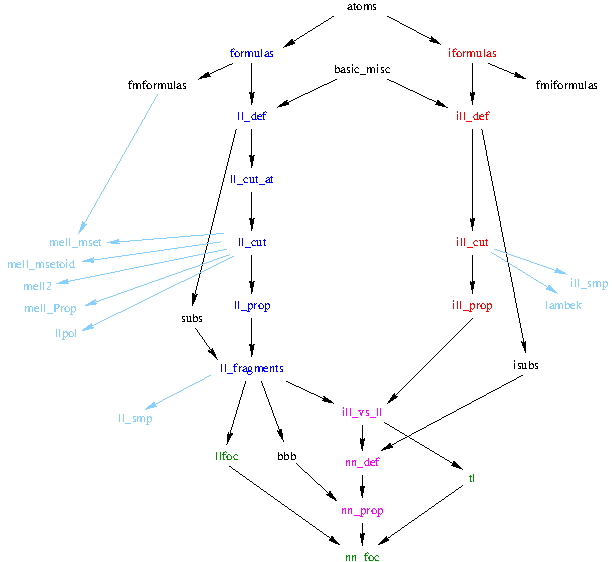
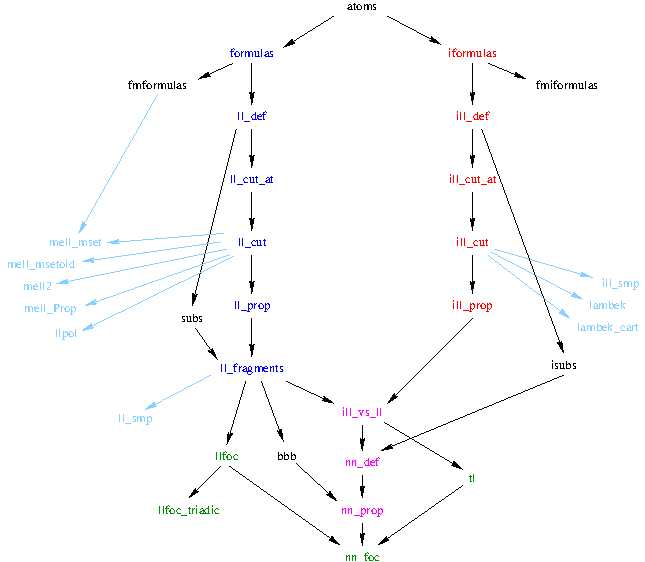
update metadata

diff --git a/RELEASE_NOTES.md b/RELEASE_NOTES.md
@@ -1,13 +1,13 @@
-# YALLA: an LL library for Coq
+# YALLA: an LL library for Rocq
 
-## Version 2.x
+## Version 2.1.0
 
-Modifications in definitions leading to possible incompatibilities with version 2.0.*:
+This major revision introduces modifications in definitions leading to possible incompatibilities with versions 2.0.*:
 
 * generalized mix rules
     (no real impact if mix rules are not used except that the `mix0` and `mix2` rules are replaced by a single rule);
 * output of `atomic` is now in `Type` (only requires simple updates if `atomic` is used);
-* results are now parametrized over atom sets (this increases the number of implicit parameters of objects);
+* results are now parameterized over atom sets (this increases the number of implicit parameters of objects);
 * introduction of `Forall_sequent` to deal with properties of sequents inside proofs rather than `ll_ps` (and similarly for the other systems);
 * parameter `pcut` for cut-rules is now of type `formula -> bool`.
 
@@ -21,7 +21,27 @@ New results added, including:
 * Girard's translations of intuitionistic logic;
 * more on focusing (Andreoli's triadic system).
 
-*Tested with Coq v8.17.0.*
+[OLlibs](https://github.com/olaure01/ollibs) v2.1 is now required as an external dependency.
+
+*Tested with Rocq v9.2.*
+
+## Version 2.0.7 (2025/03/26)
+
+This is mostly an adaptation of v2.0 to Rocq v9.0 and OLlibs v2.0.7.
+
+*Tested with Rocq v9.0-9.2.*
+
+## Version 2.0.6 (2024/09/16)
+
+This is mostly an adaptation of v2.0 to Coq v8.20 and OLlibs v2.0.7.
+
+*Tested with Coq v8.20.*
+
+## Version 2.0.5 (2024/09/15)
+
+This is mostly an adaptation of v2.0 to Coq v8.19 and OLlibs v2.0.6.
+
+*Tested with Coq v8.19.*
 
 ## Version 2.0.4 (2023/04/09)
 

diff --git a/yalla/README.md b/yalla/README.md
@@ -1,6 +1,6 @@
-# YALLA: an LL library for Coq
+# YALLA: an LL library for Rocq
 
-## Yet Another deep embedding of Linear Logic in Coq
+## Yet Another deep embedding of Linear Logic in Rocq
 
 
 
@@ -59,6 +59,8 @@ Main files:
        ipperm P = false)
 * isubs.v:
     susbtitution for ILL
+* ill_cut_at.v:
+    cut admissibility for atomic cut formulas in ILL
 * ill_cut.v:
     cut admissibility properties for ILL
 * ill_prop.v:
@@ -71,8 +73,11 @@ Main files:
     properties of double-negation translations from LL to ILL
     related to expressiveness analysis
 * llfoc.v:
-    definitions of focused systems
+    definitions of (monadic) focused systems
     and proof of strong focusing from weak focusing
+* llfoc_triadic.v:
+    triadic focused system
+	and equivalence with monadic focused system
 * nn_foc.v:
     double-negation-based proof of weak focusing
 
@@ -83,7 +88,9 @@ Example files for interfaces:
 * mell_Prop.v:
     unit-free MELL with proofs in Prop (i.e. provability only)
 * lambek.v:
-    a variant of Lambek calculus
+    Lambek calculus
+* lambek_cart.v:
+    a variant of Lambek calculus with cartesian product
 * mell_mset.v:
     multiset-based MELL (no exchange rule)
 * mell_msetoid.v:
@@ -106,8 +113,6 @@ Other files:
 * atoms.v:
     classes describing constraints on atoms used in the library
     with a specific instance proving the consistency of all hypotheses
-* basic_misc.v:
-    basic definitions and tactics
 
 The precise file dependencies are pictured in the [dependency graph](dependencies.png).
 

diff --git a/README.md b/README.md
@@ -1,13 +1,13 @@
-# yalla
+# Yalla
 
-## Yet Another deep embedding of Linear Logic in Coq
+## Yet Another deep embedding of Linear Logic in Rocq
 
 
 ### Installation
 
-Requires [OLlibs v2.0.2](https://github.com/olaure01/ollibs) (add-ons for the standard library): [see installation instructions](https://github.com/olaure01/ollibs/blob/master/README.md).
+Requires [OLlibs v2.1.1](https://github.com/olaure01/ollibs) (add-ons for the standard library): [see installation instructions](https://github.com/olaure01/ollibs/blob/master/README.md).
 
-1. [install OLlibs v2.0.2](https://github.com/olaure01/ollibs/blob/master/README.md)
+1. [install OLlibs v2.1.1](https://github.com/olaure01/ollibs/blob/master/README.md)
 2. install Yalla
 
         $ ./configure
@@ -17,7 +17,7 @@ Requires [OLlibs v2.0.2](https://github.com/olaure01/ollibs) (add-ons for the st
 ### Description
 
 * microyalla: kernel version of yalla
-* yalla: a deep embedding of variants of linear logic in Coq
+* yalla: a deep embedding of variants of linear logic in Rocq
 
 See the [more detailed README](yalla/README.md) for more informations.
 
